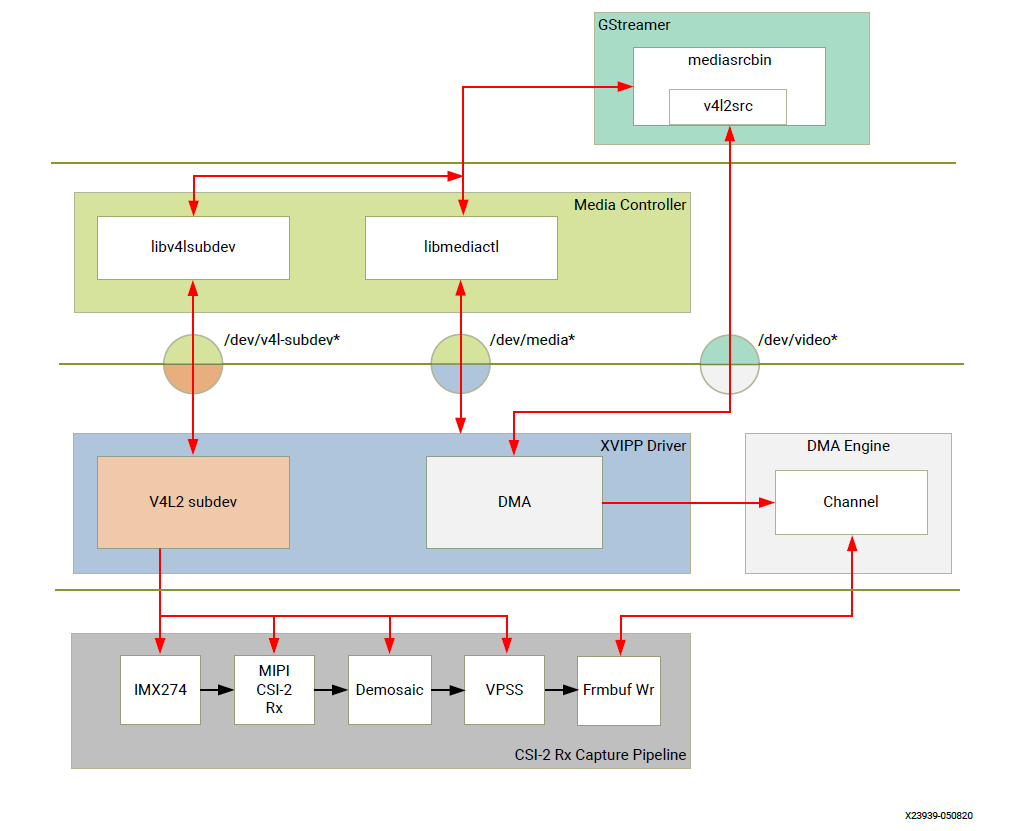
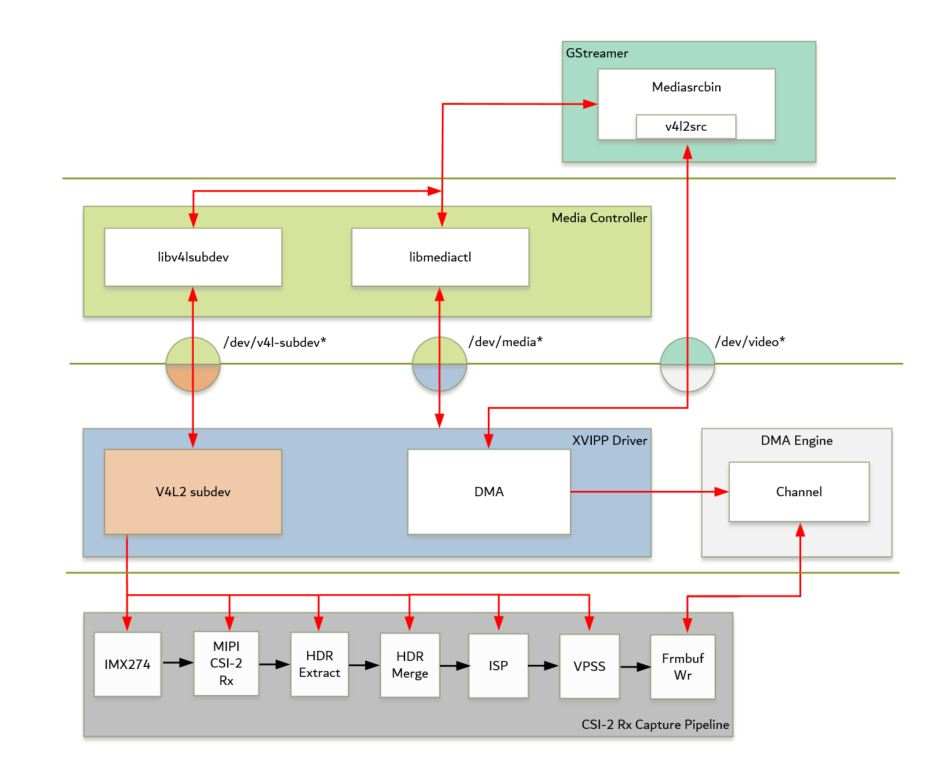
Docs : Feature - DOL-HDR video capture.

diff --git a/docs/source/arch/arch-sw.rst b/docs/source/arch/arch-sw.rst
@@ -258,6 +258,14 @@ Table : V4L2 Drivers Used in Capture Pipelines
 | AXI-Stream Switch                       | - Sets media bus format and resolution on input pad.                                                                         |
 |                                         | - Sets media bus format and resolution on output pad.                                                                        |
 +-----------------------------------------+------------------------------------------------------------------------------------------------------------------------------+
+| HDR Extract                             | - Sets media bus format and resolution on input pad.                                                                         |
+|                                         | - Sets media bus format and resolution on two output pads.                                                                        |
+|                                         | - Configure HDR Extract IP and stream data to produce Short Exposure Frame (SEF) and Long Exposre Frames(LEF).               |
++-----------------------------------------+------------------------------------------------------------------------------------------------------------------------------+
+| HDR Merge                               | - Sets media bus format and resolution on two input pads.                                                                         |
+|                                         | - Sets media bus format and resolution on output pad.                                                                        |
+|                                         | - Configure HDR Merge IP and stream data to produce a single HDR Frame from SEF and LEF.                                     |
++-----------------------------------------+------------------------------------------------------------------------------------------------------------------------------+
 | HDMI Rx Subsystem                       | - Query digital video (DV) timings on output pad.                                                                            |
 |                                         | - Sets media bus format and resolution on output pad.                                                                        |
 +-----------------------------------------+------------------------------------------------------------------------------------------------------------------------------+

diff --git a/docs/source/intro.rst b/docs/source/intro.rst
@@ -25,7 +25,7 @@ The following is a list of supported platforms including key I/O interfaces:
 
     * File source
 
-    * MIPI CSI-2 image sensor capture pipeline via FMC daughter card
+    * MIPI CSI-2 image sensor capture pipeline via FMC daughter card, HDR enabled
 
   * Processing:
 
@@ -53,12 +53,12 @@ The following is a list of supported platforms including key I/O interfaces:
 * Platform 3 - *vck190_hdmiRx_hdmiTx*:
 
   Platform 3 uses HDMI RX in the capture pipeline, while the rest of the hardware
-  design and pre-instantiated set of I/O interfaces remain the same. HDMI RX also
-  supports capture of audio data.
+  design and pre-instantiated set of I/O interfaces remain the same. HDMI RX 
+  also supports capture of audio data.
 
-  Audio replay can be done on all platforms. For Platform 1 and Plaform 2 the audio
-  source is a file. In case of Platform 3 the audio source can be a either a file or
-  HDMI RX.
+  Audio replay can be done on all platforms. For Platform 1 and Platform 2 the 
+  audio source is a file. In case of Platform 3 the audio source can be a either
+  a file or  HDMI RX.
 
 .. image:: images/system-bd.jpg
     :width: 1200px
@@ -86,6 +86,31 @@ Working of above frameworks are detailed in Chapter 9.
 .. image:: images/sw-stack.jpg
     :width: 700px
     :alt: Software Stack Overview
+
+
+
+High Dynamic Range Video
+------------------------
+
+Base TRD supports high dynamic range (HDR) video with capture and display pipelines,
+following is a brief introduction. 
+
+**Multi-exposure Digital Overlap High Dynamic Range (DOL-HDR) capture**
+
+High dynamic range image is a technique obtained by combining several different 
+exposures frames of the same subject matter. IMX274 camera sensor supports 
+capturing objects at two different exposure, HDR extract IP segregates the 
+sensor data (DOL data) into short and long exposure frames. HDR merge will 
+generate the HDR frame form the data obtained. The HDR frame results in an image
+with a greater dynamic range than what is possible by taking one single exposure. 
+HDR is useful for recording many real-world scenes containing very bright, 
+direct sunlight to extreme shade.
+
+**Note:**
+
+- Only Platform 1 has the ability to capture HDR frames.
+
+- 4k HDR video in platform 1 has a max framerate of 30fps, limited by the sensor.
 
 Design Files
 ---------------------
